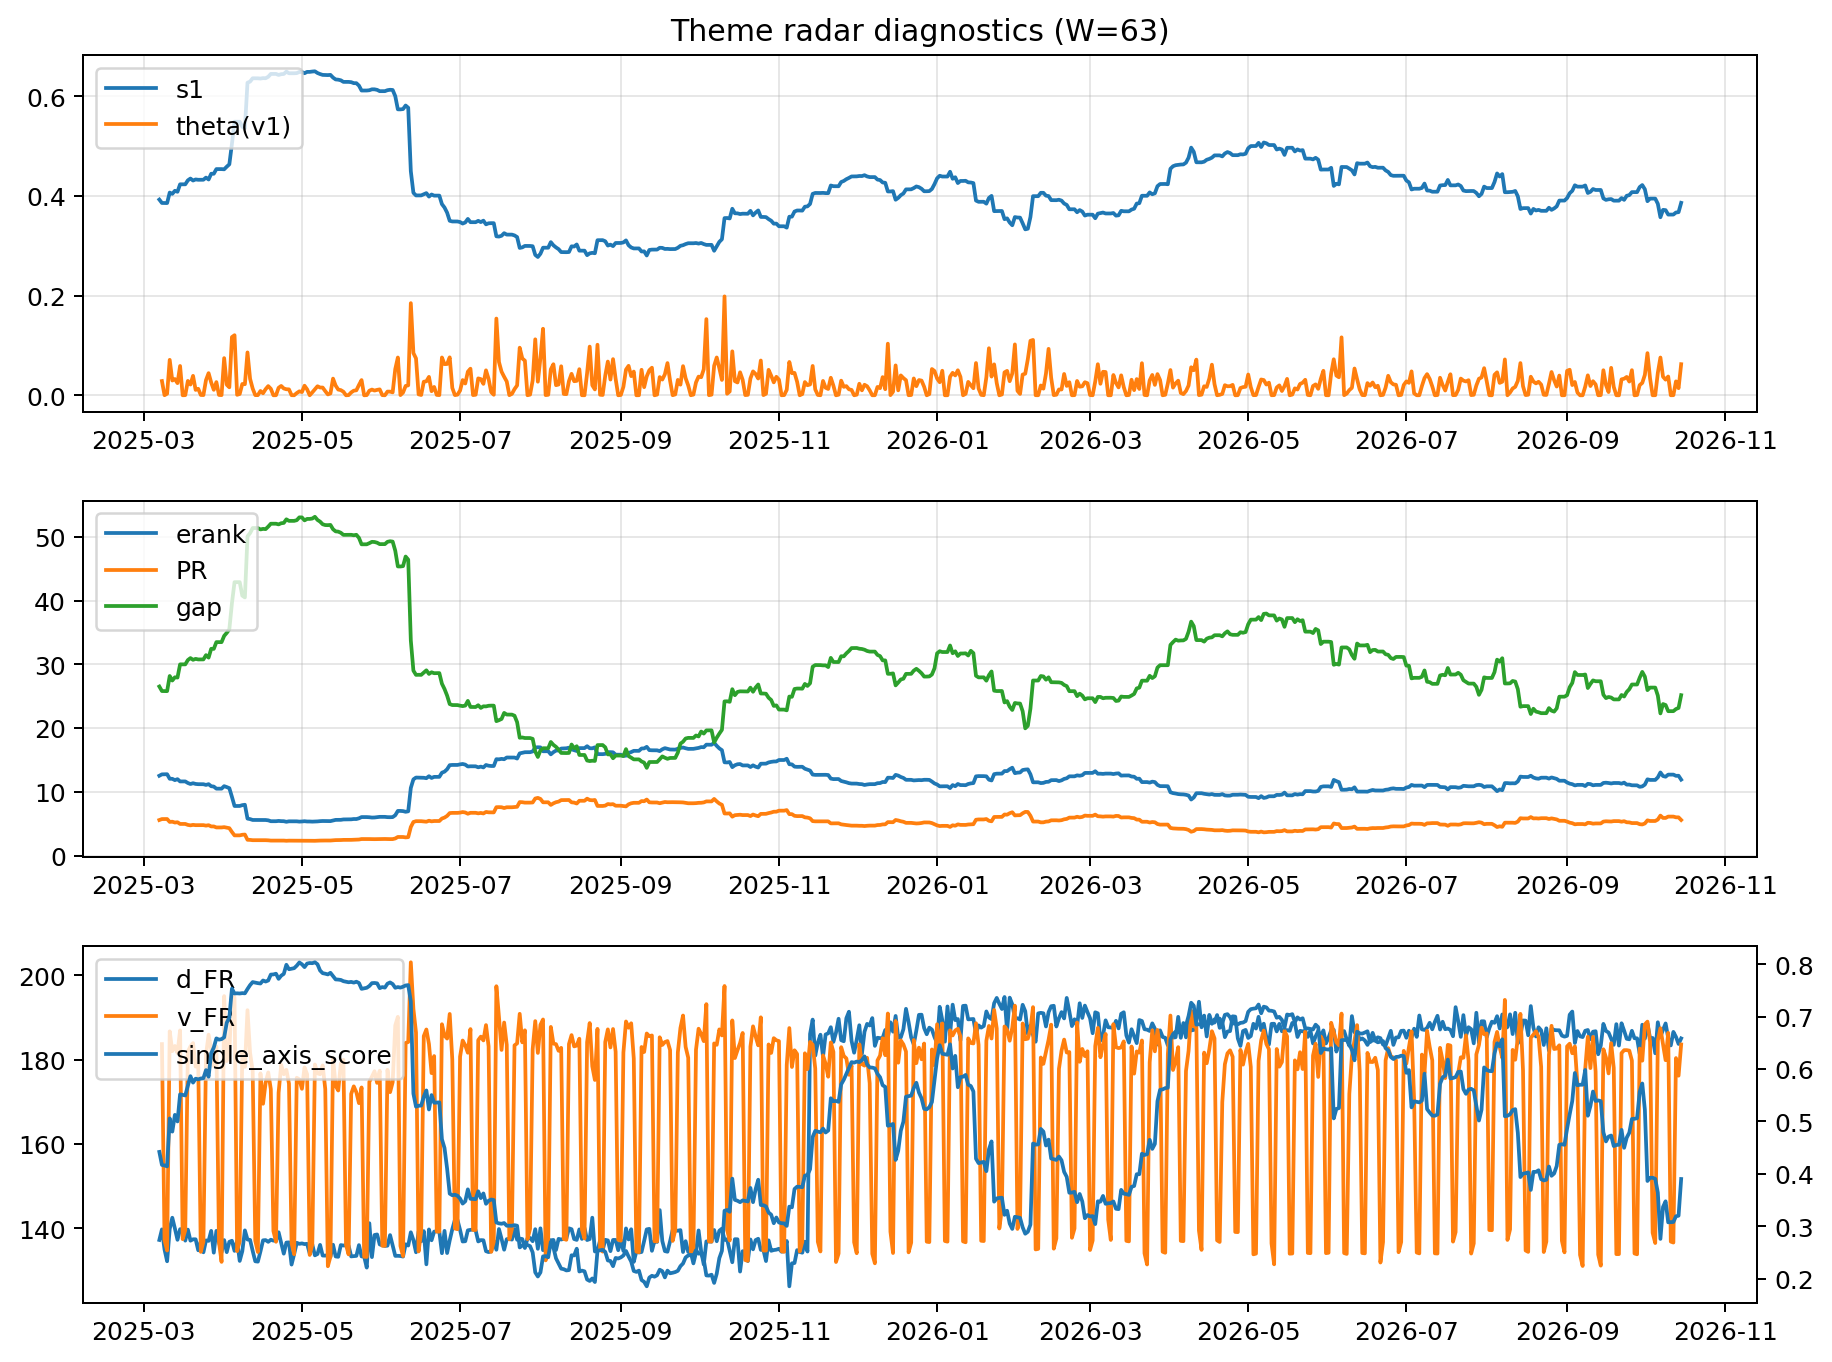
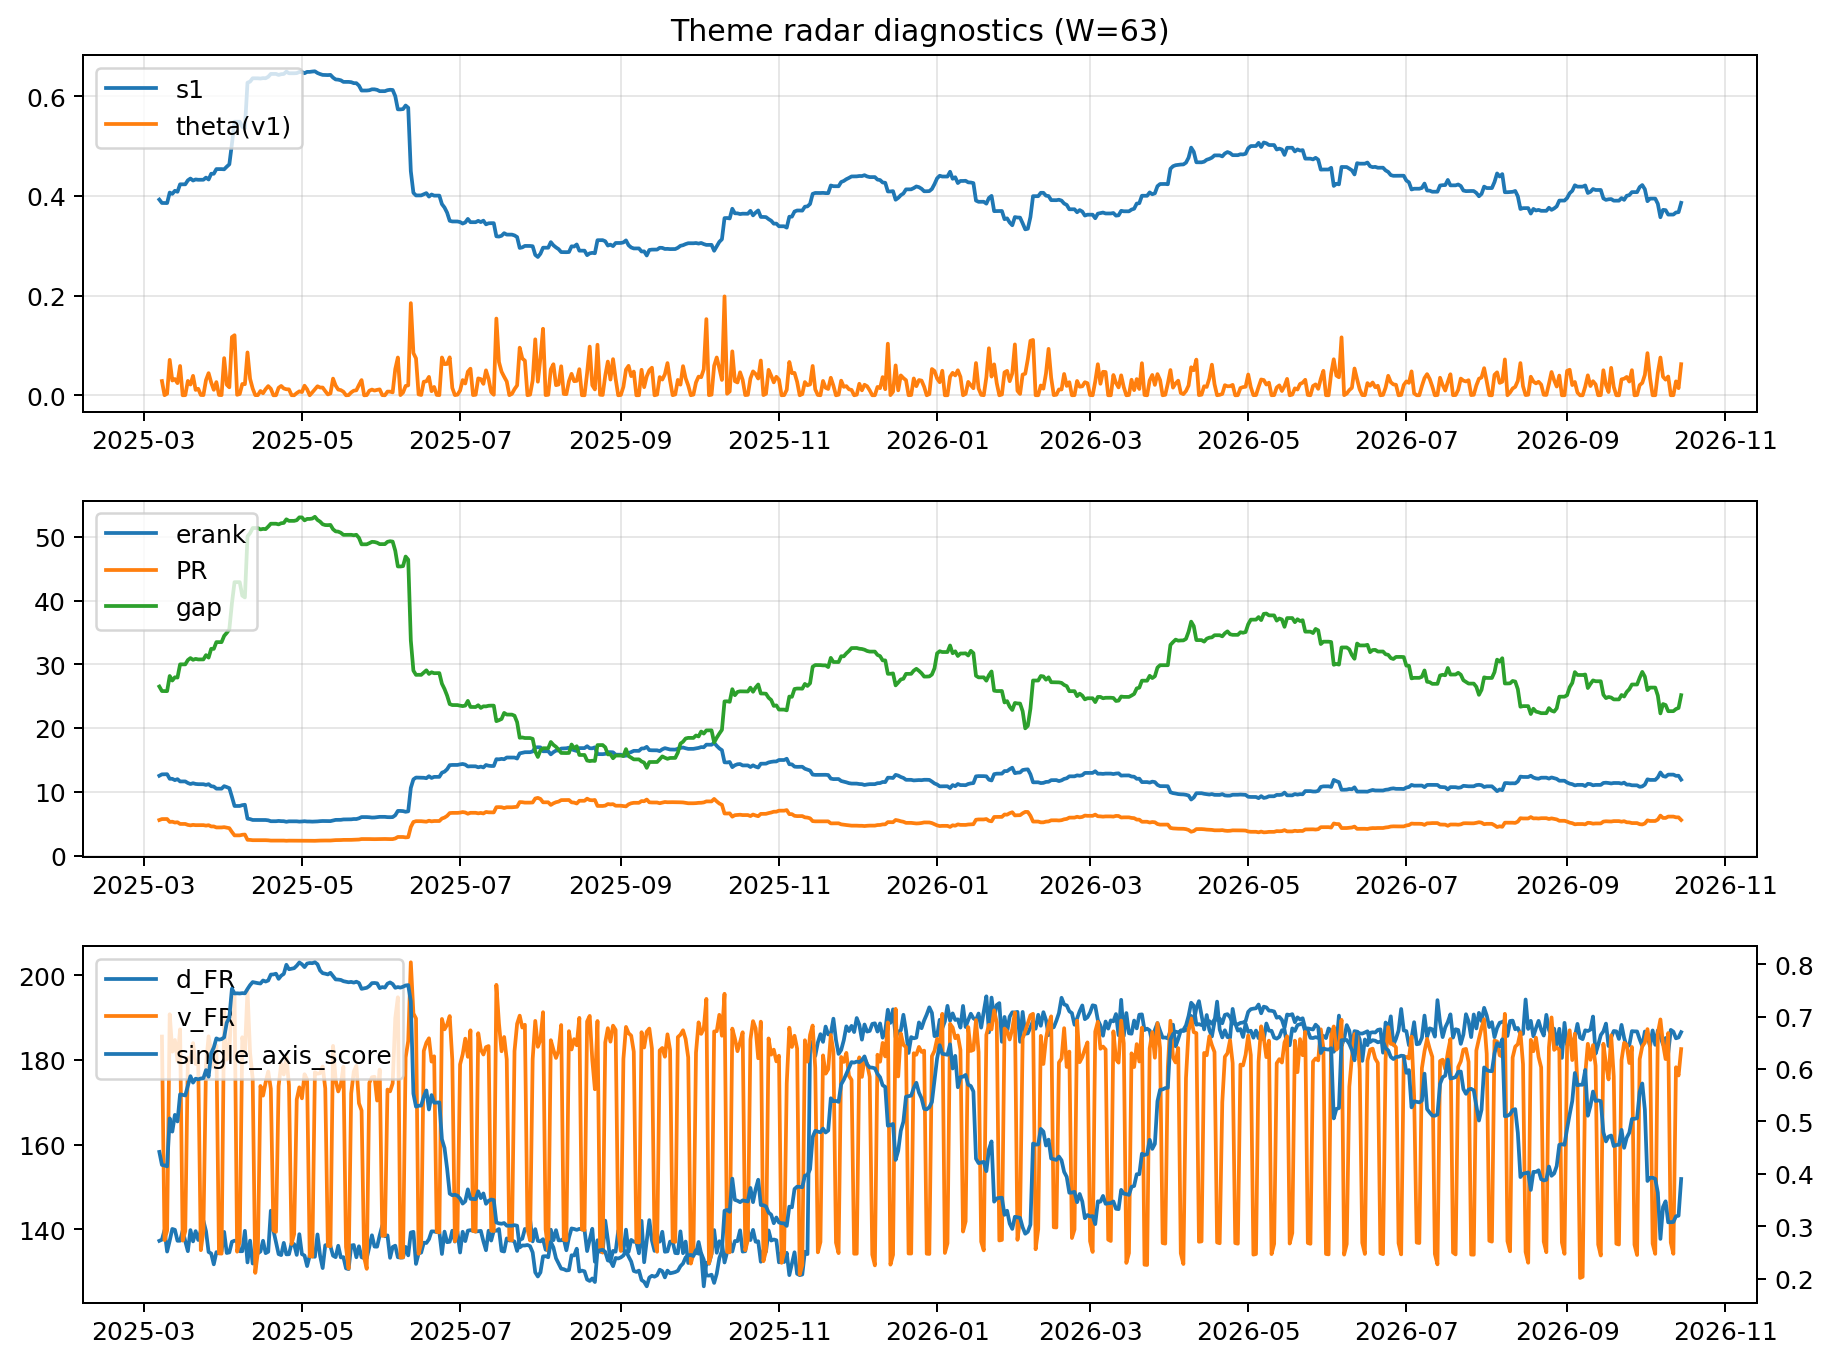
log: 2026-10-15 | sha256:85e397d0741f343811c3e5bc1721125517835110ed4ff06490dae7c32141a4cf

diff --git a/logs/2026-10-15.md b/logs/2026-10-15.md
@@ -3,43 +3,43 @@
 ![diagnostic W63](../assets/diagnostic/2026-10-15_W63.png)
 
 ## Leaders (v1) — W=63
-- **Nuclear_Uranium** (0.0786413494589041)
-- Semis (0.0623041435575253)
-- Space (0.057171617260466)
+- **Nuclear_Uranium** (0.0786413433223022)
+- Semis (0.0623041510709289)
+- Space (0.0571716164328731)
 
 ## Challengers — W=63
-**v2:** Semis (0.0949668154059628), Rates (0.0849628364032857), Genomics_Bio (0.0820261020596249)
-**v3:** Software_Cloud (0.1180681676396338), Cyber (0.0825186234546561), MegaCap_AI (0.0609862737839054)
+**v2:** Semis (0.0949667465759196), Rates (0.0849630032460584), Genomics_Bio (0.0820260610300729)
+**v3:** Software_Cloud (0.1180682062575581), Cyber (0.0825186594758406), MegaCap_AI (0.0609862022466398)
 
 ## Migration (20D slope) — W=63
 **Top risers:**
-- axis_Crypto: 0.0005163472440299
-- axis_Metals: 0.000370321426595
-- axis_Sector_RealEstate: 0.0003157534149212
-- axis_DataCenter_Infra: 0.0002958394859074
-- axis_MegaCap_AI: 0.000201901153519
-- axis_Vol: 0.0001800223532121
-- axis_Sector_ConsDisc: 0.0001434281261976
-- axis_Sector_Utilities: 0.0001401037679984
-- axis_Clean_Wind: 0.0001258438150562
-- axis_Miners: 0.0001242727271928
+- axis_Crypto: 0.0005163471035108
+- axis_Metals: 0.000370321049382
+- axis_Sector_RealEstate: 0.0003157535020012
+- axis_DataCenter_Infra: 0.000295839103965
+- axis_MegaCap_AI: 0.0002019016053874
+- axis_Vol: 0.0001800223850134
+- axis_Sector_ConsDisc: 0.0001434283756758
+- axis_Sector_Utilities: 0.0001401038184389
+- axis_Clean_Wind: 0.0001258435963303
+- axis_Miners: 0.0001242727362725
 
 **Top fallers:**
-- axis_Space: -0.0001178029264384
-- axis_Software_Cloud: -0.0001234199765964
-- axis_Nuclear_Uranium: -0.0001535578220897
-- axis_Defense: -0.0002182049443309
-- axis_Quantum: -0.0002570867727179
-- axis_Rates: -0.0002573845465981
-- axis_Semis: -0.0002608468865742
-- axis_Commodities: -0.0002906109840023
-- axis_Drones_Autonomy: -0.0003383919129793
-- axis_Genomics_Bio: -0.0003559786997896
+- axis_Space: -0.0001178033208946
+- axis_Software_Cloud: -0.0001234197261436
+- axis_Nuclear_Uranium: -0.0001535582295886
+- axis_Defense: -0.0002182049224623
+- axis_Quantum: -0.0002570869399376
+- axis_Rates: -0.00025737999301
+- axis_Semis: -0.0002608475797243
+- axis_Commodities: -0.0002906108510464
+- axis_Drones_Autonomy: -0.0003383918519366
+- axis_Genomics_Bio: -0.0003559794896848
 
 ## Risk line (W=63)
-- s1: 0.3860765292989411
-- theta_v1: 0.0623785595903783
-- v_FR: 183.61353231579707
+- s1: 0.3860765357015083
+- theta_v1: 0.0623785565256764
+- v_FR: 182.55441101583875
 - single_axis_score: 0.3901360544217687
 
 ## Interpretation
@@ -48,7 +48,7 @@
 - Action: Tomorrow watchlist: Crypto, Metals, Sector_RealEstate, DataCenter_Infra, MegaCap_AI + v2_top1=Semis
 - Action: Hedge note: normal correlation stability.
 
-- Percentiles (W=63 history): vfr_pct=0.70, theta_pct=0.92, s1_pct=0.37, score_pct=0.33.
+- Percentiles (W=63 history): vfr_pct=0.64, theta_pct=0.92, s1_pct=0.37, score_pct=0.33.
 
 ---
[2 lines of base64/hex data omitted]
